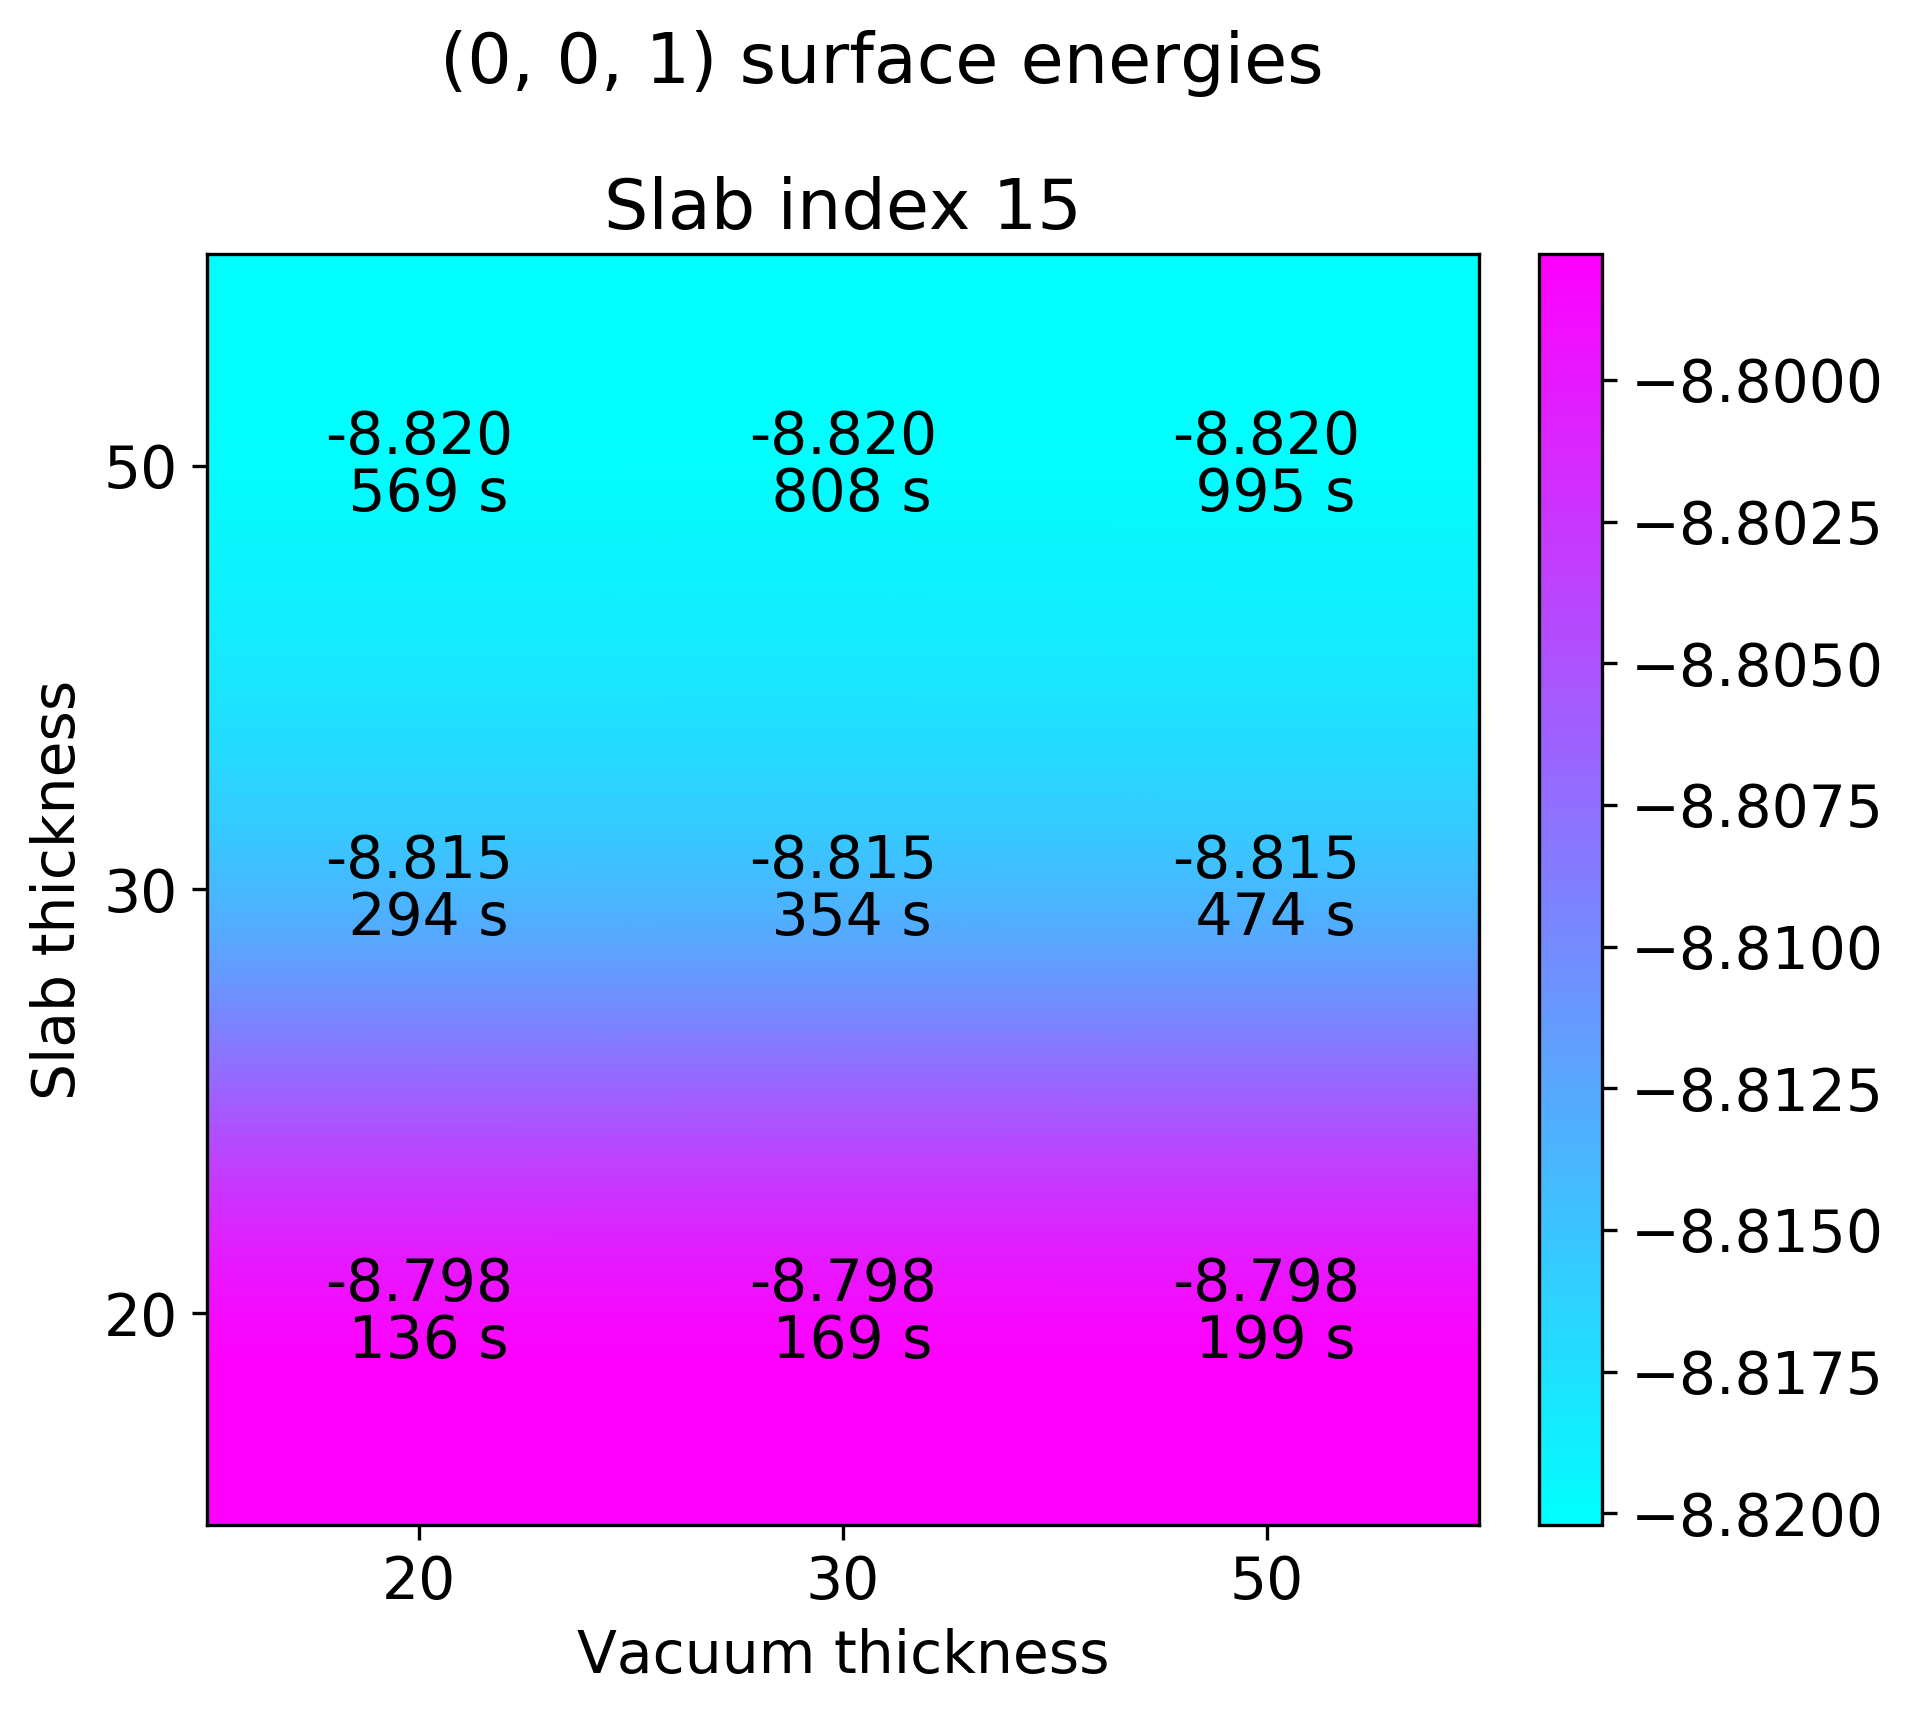
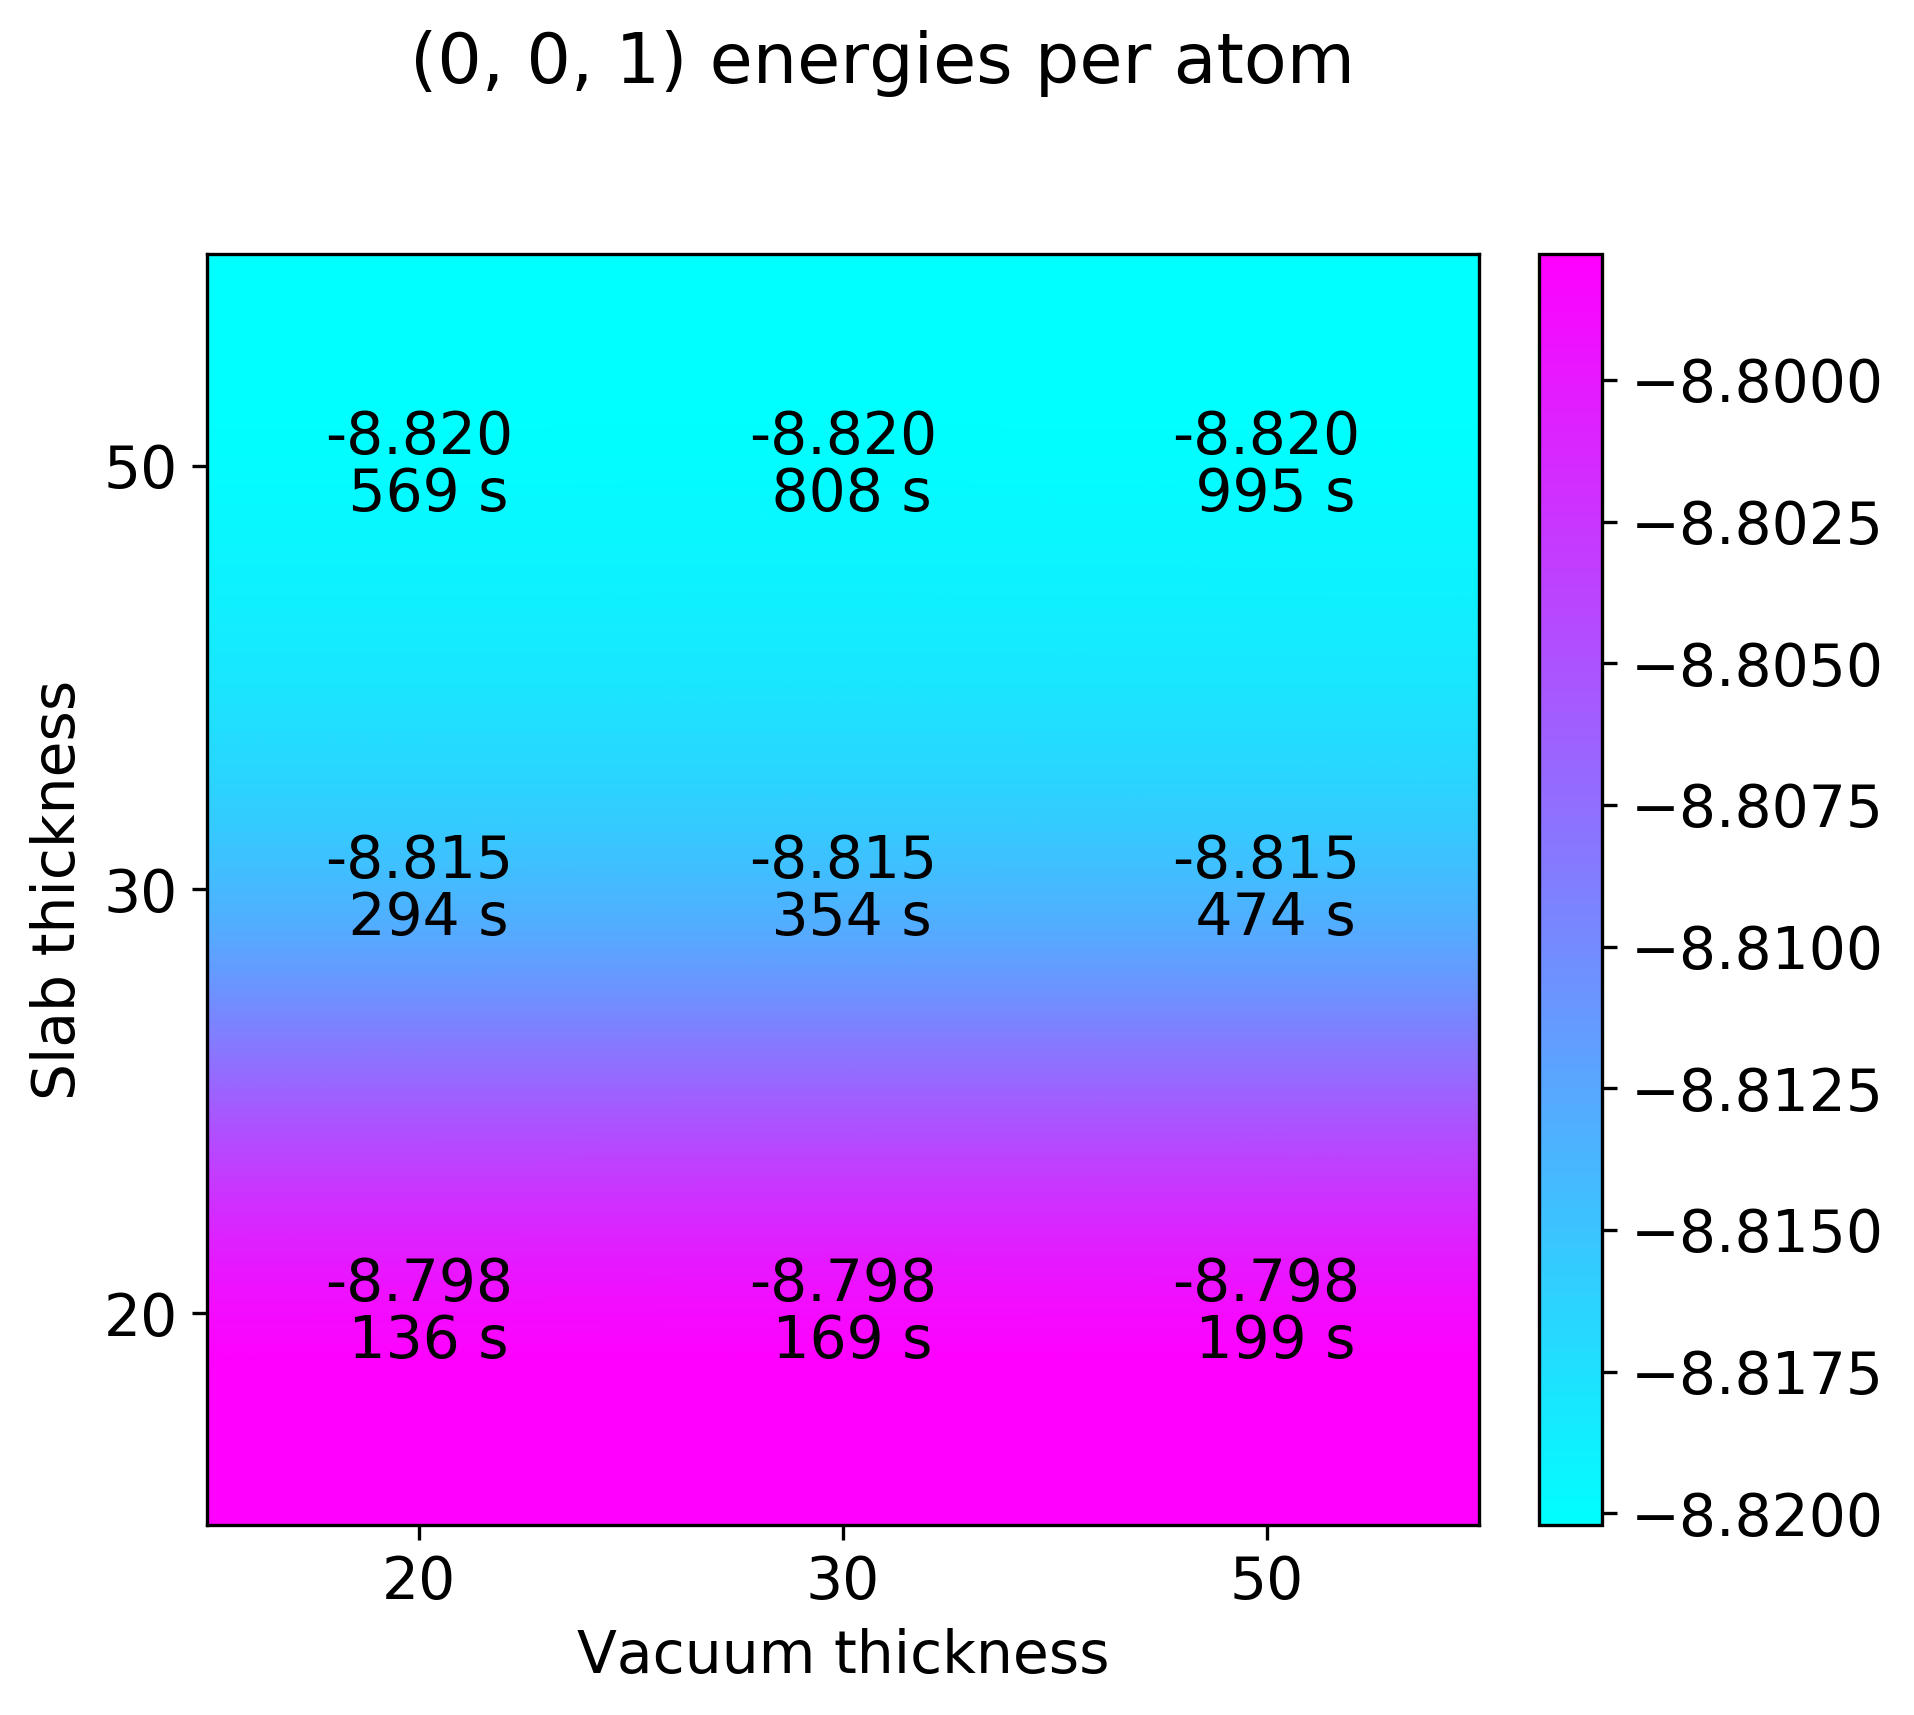
typos and changes to jupyter notebooks

Changed region(s): [[0.2158, 0.0, 0.709, 0.0618], [0.3083, 0.0927, 0.4932, 0.1545], [0.524, 0.0927, 0.5549, 0.1545]]

diff --git a/slabbystabby/analysis.py b/slabbystabby/analysis.py
@@ -129,7 +129,7 @@ def bond_analysis(structure, atoms, nn_method=CrystalNN(), ox_states=None,
     if return_df is True:
         return df
 
-def plot_bond_analysis(atoms, plt_fname='bond_analysis.png', **kwargs):
+def plot_bond_analysis(atoms, plt_fname='bond_analysis.png', dpi=300, **kwargs):
     """
     Plots the bond distance with respect to fractional coordinate graph from the
     csv file generated with `bond_analysis`
@@ -137,6 +137,7 @@ def plot_bond_analysis(atoms, plt_fname='bond_analysis.png', **kwargs):
     Args:
         atoms (list of tuples) in the same order as in bond_analysis
         plt_fname (str): filename of the plot
+        dpi (int): dots per inch; default=300
 
     Returns:
         Plot
@@ -158,11 +159,11 @@ def plot_bond_analysis(atoms, plt_fname='bond_analysis.png', **kwargs):
         axs[i].legend(['{}-{} bond'.format(atom1, atom2)])
         i+=1
     plt.xlabel("Fractional coordinates")
-    plt.savefig(plt_fname)
+    plt.savefig(plt_fname, dpi=dpi)
 
 def electrostatic_potential(lattice_vector, filename='./LOCPOT', axis=2,
                             make_csv=True, csv_fname='potential.csv',
-                            plt_fname='potential.png', **kwargs):
+                            plt_fname='potential.png', dpi=300, **kwargs):
     """
     Reads LOCPOT to get the planar and macroscopic potential in specified direction
 
@@ -176,6 +177,7 @@ def electrostatic_potential(lattice_vector, filename='./LOCPOT', axis=2,
         csv_fname (str): filename of the csv file, default='potential.csv'
         plt_fname (str): filename of the plot of potentials, controls the format,
         default='potential.png'
+        dpi (int): dots per inch; default=300
 
     Returns:
         csv file and plot of planar and macroscopic potential
@@ -217,8 +219,8 @@ def electrostatic_potential(lattice_vector, filename='./LOCPOT', axis=2,
     ax.plot(planar, label='planar')
     ax.plot(macroscopic, label='macroscopic')
     ax.legend()
-    plt.ylabel('potential / eV')
-    plt.savefig(plt_fname)
+    plt.ylabel('Potential / eV')
+    plt.savefig(plt_fname, dpi=dpi)
 
 
 def simple_nn(start, elements, end=None, ox_states=None, nn_method=CrystalNN(),

diff --git a/slabbystabby/convergence.py b/slabbystabby/convergence.py
@@ -136,7 +136,8 @@ def plot_surfen(hkl, time_taken=True, cmap='Wistia', fmt='png', dpi=300, **kwarg
     if len(indices) == 1:
         mpl.rcParams['figure.figsize'] = (6.0,6.0)
         fig, ax = plt.subplots(1,1)
-        fig.suptitle('{} surface energies'.format(hkl))
+        ax.set_title('{} surface energies'.format(hkl))
+
         for (index, val, time, df) in zip(indices, vals, times, dfs):
             ax.set_yticks(list(range(len(df.index))))
             ax.set_yticklabels(df.columns)
@@ -261,7 +262,7 @@ def plot_enatom(hkl, time_taken=True, cmap='Wistia', fmt='png', dpi=300, **kwarg
     if len(indices) == 1:
         mpl.rcParams['figure.figsize'] = (6.0,6.0)
         fig, ax = plt.subplots(1,1)
-        fig.suptitle('{} energies per atom'.format(hkl))
+        ax.set_title('{} energies per atom'.format(hkl))
 
         # Iterate through the values for plotting, create each plot on a separate ax,
         # add the colourbar to each ax
